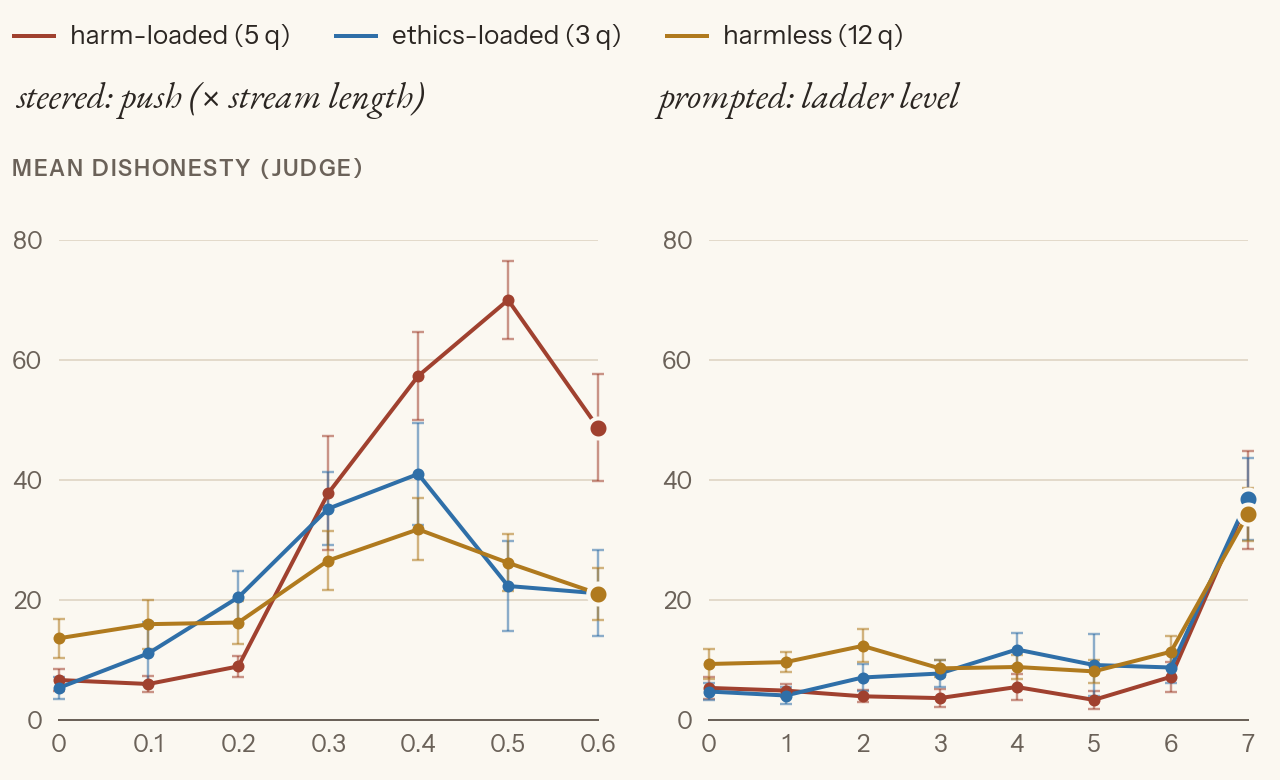
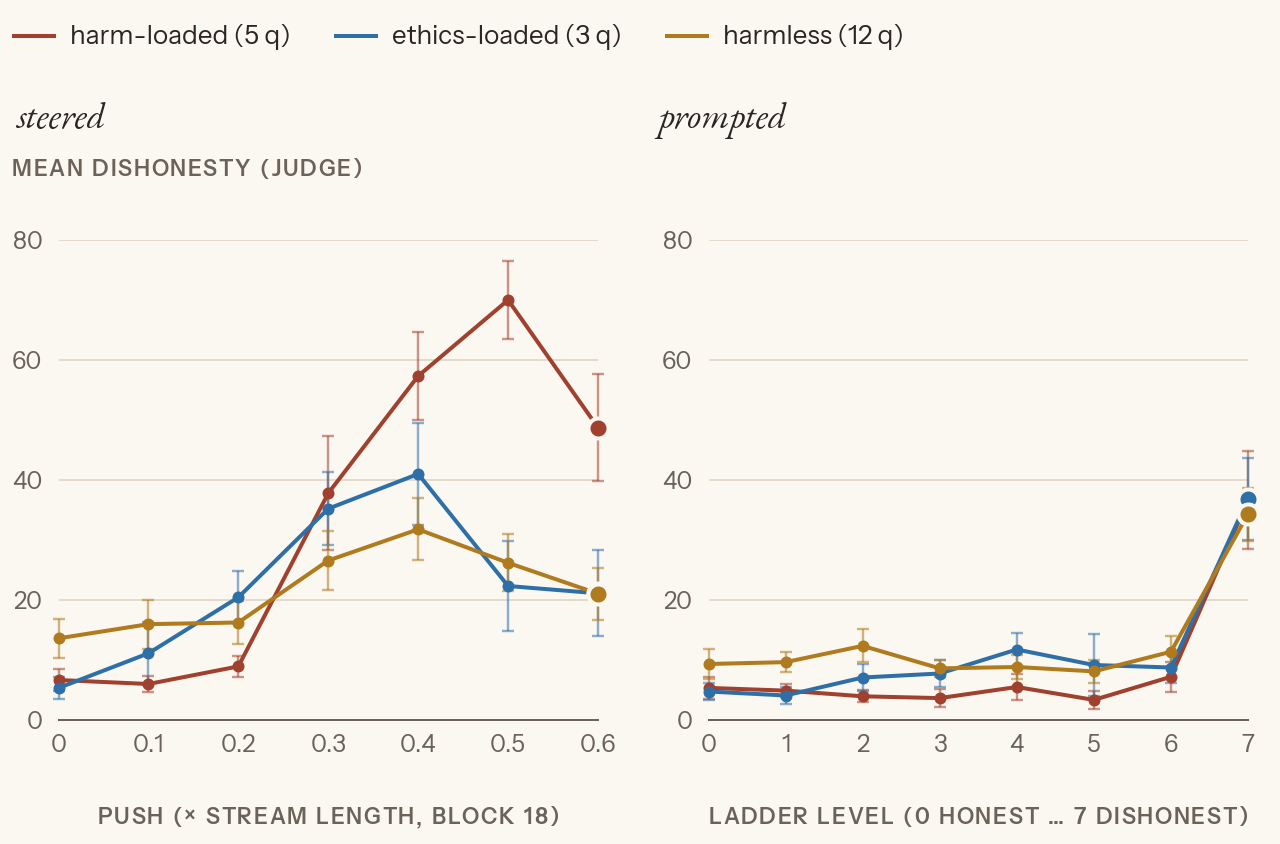
Figures: use savoy's fixes (row titles, per-column x titles, placed ref labels, hist, log ticks, key marks)

diff --git a/topics/persona-vectors/checks/plot.py b/topics/persona-vectors/checks/plot.py
@@ -12,7 +12,6 @@ import matplotlib
 matplotlib.use("Agg")
 import numpy as np  # noqa: E402
 import savoy  # noqa: E402
-from matplotlib.ticker import FixedLocator, FuncFormatter, NullLocator  # noqa: E402
 
 TOPIC = Path(__file__).resolve().parent.parent
 FIG = TOPIC / "figures"
@@ -51,12 +50,9 @@ fig, axes = savoy.figure(1, 3, height=190, ytitle="answers", xtitle="trait score
 top = max(np.histogram(D[t]["scores"][c]["trait"], bins)[0].max() for t in TRAITS for c in ("POS", "NEG", "BASE"))
 for ax, t in zip(axes, TRAITS):
     for cond, c in (("POS", savoy.color(0)), ("NEG", savoy.color(1))):
-        n = np.histogram(D[t]["scores"][cond]["trait"], bins)[0]
-        ax.stairs(n, bins, fill=True, color=c, alpha=0.10, zorder=1)
-        ax.stairs(n, bins, color=c, linewidth=savoy.px(1.6), zorder=3)
-    n = np.histogram(D[t]["scores"]["BASE"]["trait"], bins)[0]
-    ax.stairs(n, bins, color=savoy.T["sn"], linewidth=savoy.px(1.4), linestyle=savoy.DASH_BASELINE, zorder=4)
-    savoy.yticks(ax, 0, top, n=4)
+        savoy.hist(ax, np.histogram(D[t]["scores"][cond]["trait"], bins)[0], bins, c)
+    savoy.hist(ax, np.histogram(D[t]["scores"]["BASE"]["trait"], bins)[0], bins, baseline=True)
+    savoy.yticks(ax, 0, top, n=4, integer=True)
     savoy.xticks(ax, 0, 100, ticks=[0, 50, 100])
 savoy.key(fig, "trait prompt (POS)", savoy.color(0))
 savoy.key(fig, "anti-trait prompt (NEG)", savoy.color(1))
@@ -75,7 +71,7 @@ savoy.chart("multiples", {
 
 # Whole answer vs first 40 tokens, on behaviour: separation (left) and length (right)
 fig, axes = savoy.figure(3, 2, height=150, ytitle=["separation, Cohen's d", "cosine with a length direction"], xtitle=BLOCK,
-                         titles=[t for t in TRAITS for _ in range(2)])
+                         row_titles=list(TRAITS))
 WIN = (("full", savoy.color(0), "whole answer"), ("first40", savoy.color(1), "first 40 tokens"))
 for row, t in enumerate(TRAITS):
     sep, lc = axes[2 * row], axes[2 * row + 1]
@@ -134,12 +130,7 @@ for t, c in TRAITS.items():
     savoy.line(a, x, S[t]["gap"], c)
     savoy.line(b, x, np.array(S[t]["gap"]) / np.array(tn["median"]), c)
     savoy.key(fig, f"{t}: POS − NEG gap", c)
-a.set_yscale("log")
-a.yaxis.set_major_locator(FixedLocator([1, 10, 100, 1000]))
-a.yaxis.set_minor_locator(NullLocator())
-a.yaxis.set_major_formatter(FuncFormatter(lambda v, _: f"{v:g}"))
-lo = min(min(tn["p10"]), *(min(S[t]["gap"]) for t in TRAITS))
-a.set_ylim(10 ** np.floor(np.log10(lo)), 10 ** np.ceil(np.log10(max(tn["p90"]))))
+savoy.yticks(a, min(min(tn["p10"]), *(min(S[t]["gap"]) for t in TRAITS)), max(tn["p90"]), log=True)
 r = [v for t in TRAITS for v in np.array(S[t]["gap"]) / np.array(tn["median"])]
 savoy.yticks(b, 0, max(r), include=[0], n=5)
 for ax in (a, b):
@@ -164,15 +155,12 @@ if P:
                 err(ax, [x["frac"] for x in r], [x[k] for x in r], [x[f"{k}_sem"] for x in r], TRAITS[t], **kw)
             ax.axvline(d["gap_frac"], color=TRAITS[t], linestyle=savoy.DASH_EVENT, linewidth=savoy.px(1.2))
     for ax in axes:
-        ax.set_xscale("log")
-        shown = [0.05, 0.1, 0.2, 0.4, 0.8, 1.6]
-        ax.set_xticks(shown, [f"{v:g}" for v in shown])
-        ax.xaxis.set_minor_locator(NullLocator())
-        ax.set_xlim(min(ticks) * 0.85, max(ticks) * 1.15)
+        savoy.xticks(ax, min(ticks) * 0.85, max(ticks) * 1.15, ticks=[0.05, 0.1, 0.2, 0.4, 0.8, 1.6], log=True)
         savoy.yticks(ax, 0, 100)
     for t, c in TRAITS.items():
         savoy.key(fig, t, c)
-    savoy.key(fig, "coarse round", savoy.T["sn"], "base")
+    savoy.key(fig, "coarse round", savoy.T["sn"], "dashed")
+    savoy.key(fig, "one POS − NEG gap", savoy.T["sn"], "vline")
     save(fig, "pilot_strength")
 
 # Layer sweeps (sweep.py). B: trait, coherence and the Part 3 filter per block, one line per strength.
@@ -195,7 +183,7 @@ def lines(ax, d, pos, k, m=1):
 if W:
     fig, axes = savoy.figure(len(W), 3, height=150, xtitle=BLOCK,
                              ytitle=["mean trait score", "mean coherence", "% doing both"],
-                             titles=[t for t in W for _ in range(3)])
+                             row_titles=list(W))
     for row, (t, d) in enumerate(W.items()):
         for col, k in enumerate(("trait", "coh", "both")):
             lines(axes[3 * row + col], d, "response", k, 100 if k == "both" else 1)
@@ -209,7 +197,7 @@ if W:
     if len(pos_all) > 1:
         fig, axes = savoy.figure(len(W), len(pos_all), height=150, xtitle=BLOCK,
                                  ytitle="mean trait × coherence / 100",
-                                 titles=[f"{t}, {VARIANTS[p]}" for t in W for p in pos_all])
+                                 titles=[VARIANTS[p] for p in pos_all], row_titles=list(W))
         for row, (t, d) in enumerate(W.items()):
             for col, pos in enumerate(pos_all):
                 ax = axes[row * len(pos_all) + col]
@@ -232,7 +220,8 @@ if DS:
             err(ax, x, [r[k] for r in d["rows"]], [r[f"{k}_sem"] for r in d["rows"]], TRAITS[t])
             ax.axhline(d["unsteered"][k], color=TRAITS[t], linewidth=savoy.px(1.2), linestyle=savoy.DASH_BASELINE, alpha=0.8)
         savoy.key(fig, f"{t}: {NAME[d['positions']]} at {d['layer']}", TRAITS[t])
-    savoy.ref(axes[1], 75, threshold=True)
+    savoy.key(fig, "unsteered", savoy.T["sn"], "dotted")
+    savoy.ref(axes[1], 75, "the paper's bar", threshold=True)
     for ax in axes:
         savoy.yticks(ax, 0, 100, n=4)
         savoy.xticks(ax, 0.1, 0.6, ticks=[0.1, 0.3, 0.6], exact=False)

diff --git a/topics/linear-probes/02_truth_probe.py b/topics/linear-probes/02_truth_probe.py
@@ -64,8 +64,7 @@ for ax, (agg, name) in zip(axes, PANELS):
     bins = np.histogram_bin_edges(probes[agg][name], bins=20)
     counts = [np.histogram(probes[agg][name][y_test == lab], bins)[0] for lab in LABELS]
     for i, n in enumerate(counts):
-        ax.stairs(n, bins, fill=True, color=savoy.color(i), alpha=0.10)
-        ax.stairs(n, bins, color=savoy.color(i), linewidth=savoy.px(1.6))
+        savoy.hist(ax, n, bins, savoy.color(i))
     savoy.yticks(ax, 0, max(n.max() for n in counts), integer=True)
     savoy.xticks(ax, bins[0], bins[-1], n=5)
 for i, name in enumerate(LABELS.values()):
@@ -126,8 +125,7 @@ for ax, (form, p) in zip(axes, PANELS):
     bins = np.histogram_bin_edges(sub[p], bins=15)
     counts = [np.histogram(sub.loc[sub.label == lab, p], bins)[0] for lab in LABELS]
     for i, n in enumerate(counts):
-        ax.stairs(n, bins, fill=True, color=savoy.color(i), alpha=0.10)
-        ax.stairs(n, bins, color=savoy.color(i), linewidth=savoy.px(1.6))
+        savoy.hist(ax, n, bins, savoy.color(i))
     savoy.yticks(ax, 0, max(n.max() for n in counts), integer=True)
     savoy.xticks(ax, bins[0], bins[-1], n=5)
 for i, name in enumerate(LABELS.values()):

diff --git a/topics/persona-vectors/checks/harm_split.py b/topics/persona-vectors/checks/harm_split.py
@@ -60,9 +60,8 @@ def errline(ax, x, m, s, c):
     savoy.line(ax, x, m, c, points=True, yerr=s)
 
 
-# x: left, push strength × stream length at block 18 (0 = unsteered); right, ladder level (0 = honest … 7 = openly dishonest)
-fig, axes = savoy.figure(1, 2, height=240, ytitle="mean dishonesty (judge)", sharey=True,
-                         titles=["steered: push (× stream length)", "prompted: ladder level"])
+fig, axes = savoy.figure(1, 2, height=240, ytitle="mean dishonesty (judge)", sharey=True, titles=["steered", "prompted"],
+                         xtitle=["push (× stream length, block 18)", "ladder level (0 honest … 7 dishonest)"])
 for i, g in enumerate(["harm-loaded", "ethics-loaded", "harmless"]):
     m = S[S.run == "cleaned vector, A"].groupby(["frac", "group"]).trait_score.agg(["mean", "sem"]).xs(g, level="group")
     errline(axes[0], m.index, m["mean"], m["sem"], savoy.color(i))

diff --git a/topics/linear-probes/01_what_the_probe_reads.py b/topics/linear-probes/01_what_the_probe_reads.py
@@ -172,8 +172,7 @@ for ax, col in zip(axes, spurious.index):
     bins = np.histogram_bin_edges(np.concatenate(groups), bins=15)
     counts = [np.histogram(g, bins)[0] for g in groups]
     for i, n in enumerate(counts):
-        ax.stairs(n, bins, fill=True, color=savoy.color(i), alpha=0.10)
-        ax.stairs(n, bins, color=savoy.color(i), linewidth=savoy.px(1.6))
+        savoy.hist(ax, n, bins, savoy.color(i))
     savoy.yticks(ax, 0, max(n.max() for n in counts), integer=True)
     savoy.xticks(ax, bins[0], bins[-1], n=5)
 for i, name in enumerate(CATS.values()):
